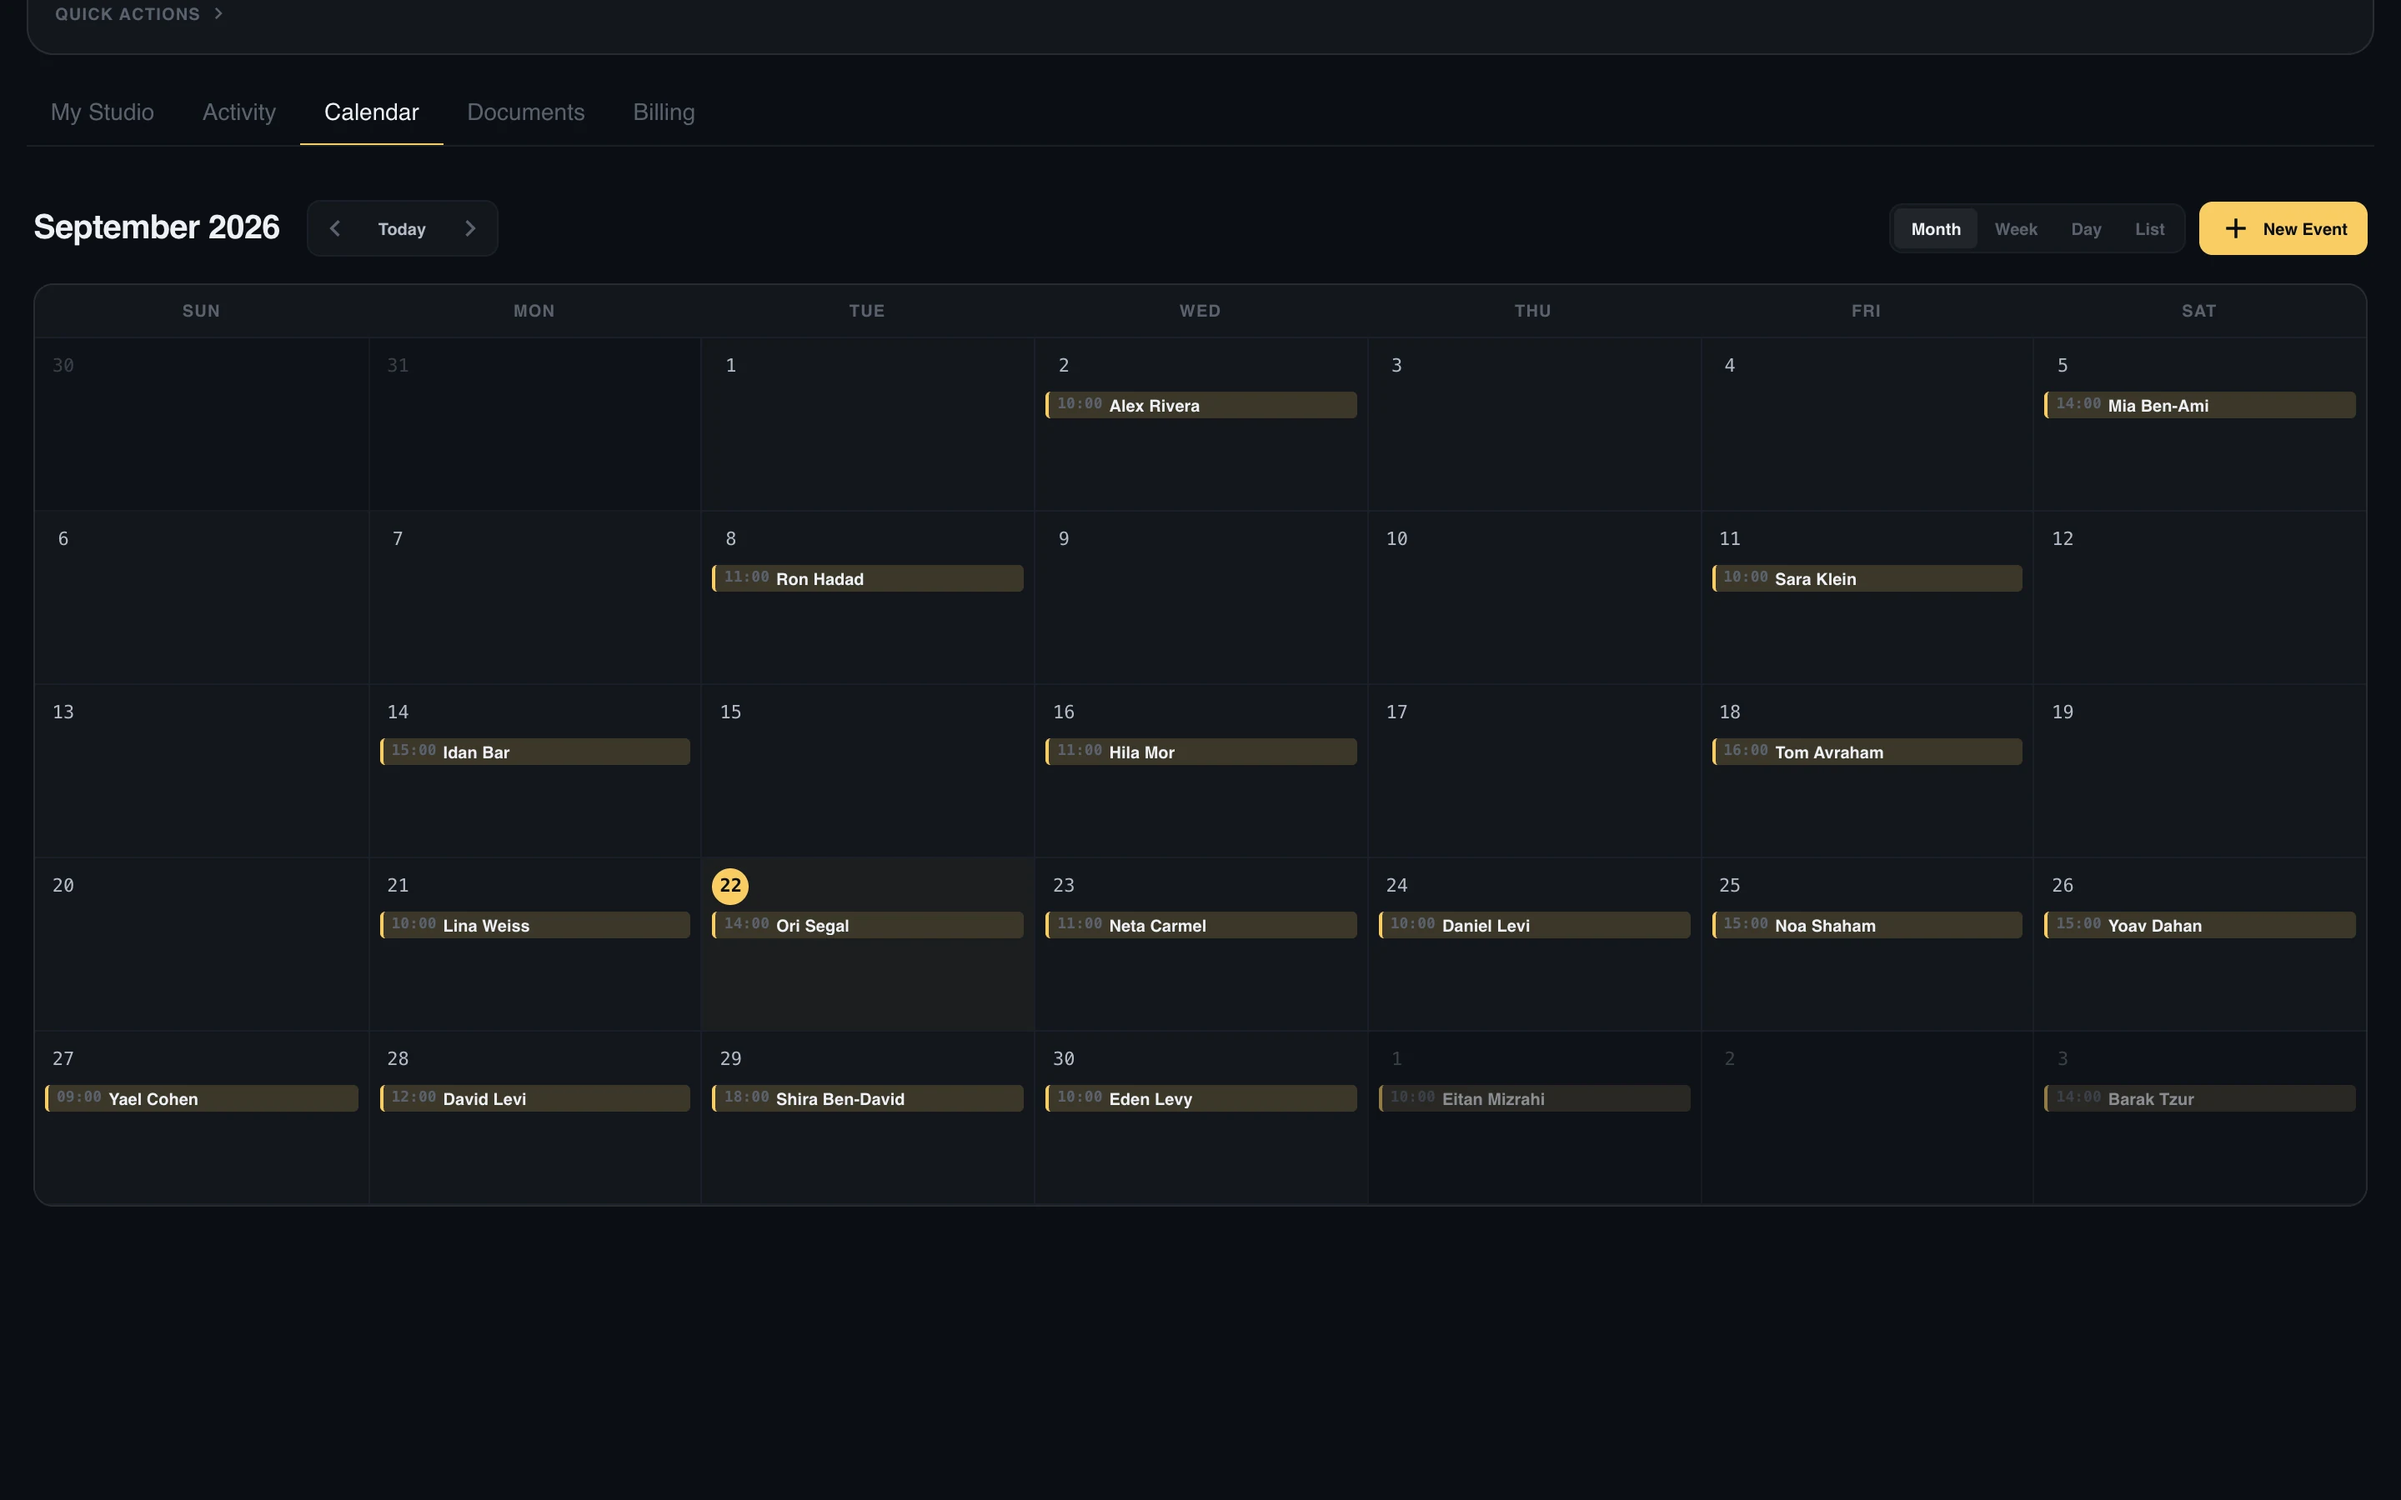
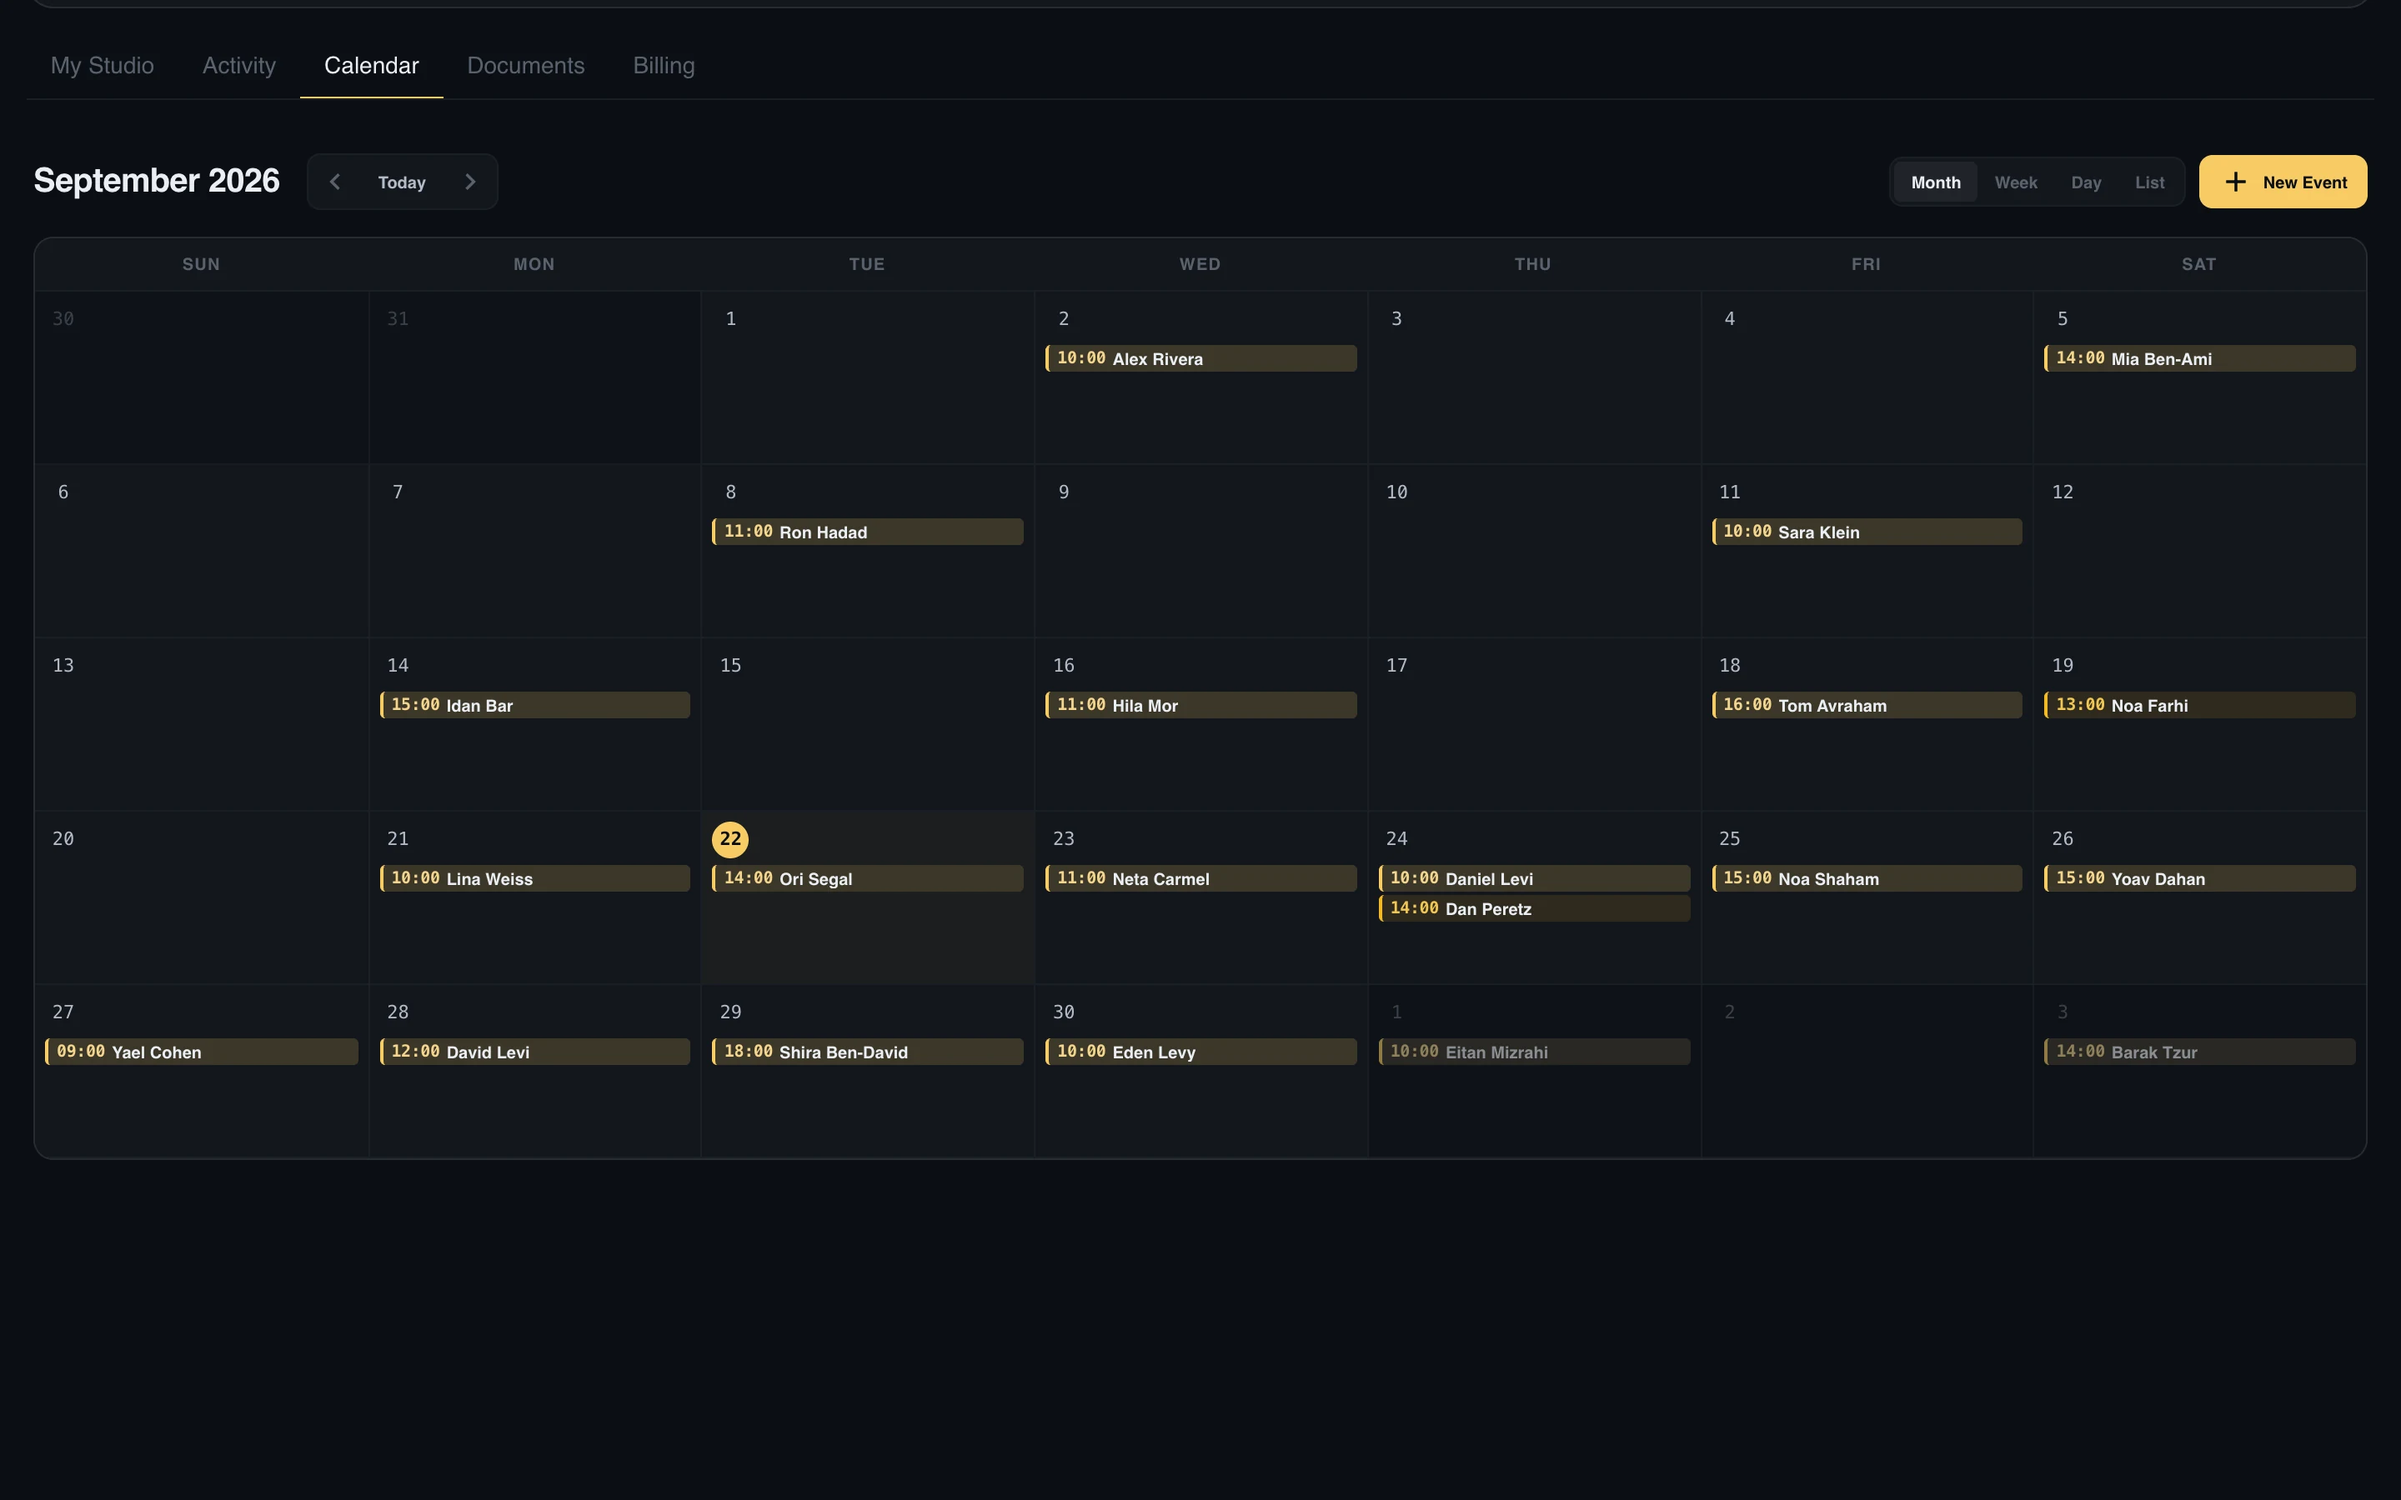
Add calendar to landing, improve tiles, and refresh captures.
Show pending bookings with clearer times and status colors, fix studio service row alignment, and reframe desktop calendar shots without the cropped Quick Actions bar.

diff --git a/src/features/entities/bookings/calender/components/Calendar.tsx b/src/features/entities/bookings/calender/components/Calendar.tsx
@@ -20,12 +20,32 @@ interface CalendarEvent {
   start: Dayjs;
   end: Dayjs;
   type: 'booking' | 'maintenance' | 'blocked';
+  status?: Reservation['status'];
   studioName?: string;
   customerName?: string;
   reservation?: Reservation;
 }
 
 const MONTH_EVENT_LIMIT = 4;
+const CALENDAR_VISIBLE_STATUSES = new Set<Reservation['status']>(['confirmed', 'pending']);
+
+function eventCardVisualClass(event: CalendarEvent): string {
+  if (event.type === 'maintenance' || event.type === 'blocked') {
+    return 'studioz-calendar__event-card--maintenance';
+  }
+  if (event.status === 'pending') {
+    return 'studioz-calendar__event-card--pending';
+  }
+  return 'studioz-calendar__event-card--booking';
+}
+
+function eventAccentClass(event: CalendarEvent, kind: 'bar' | 'dot'): string {
+  const prefix =
+    kind === 'bar' ? 'studioz-calendar__event-bar' : 'studioz-calendar__list-event-dot';
+  if (event.type === 'maintenance' || event.type === 'blocked') return `${prefix}--maintenance`;
+  if (event.status === 'pending') return `${prefix}--pending`;
+  return `${prefix}--booking`;
+}
 
 interface CalendarProps {
   title?: string;
@@ -70,18 +90,13 @@ function EventCard({
   onClick?: () => void;
 }) {
   const isMonth = view === 'month';
+  const visual = eventCardVisualClass(event);
 
   if (isMonth) {
     const label = event.customerName || event.title;
     return (
       <div
-        className={cn(
-          'studioz-calendar__event-card',
-          'studioz-calendar__event-card--month',
-          event.type === 'maintenance'
-            ? 'studioz-calendar__event-card--maintenance'
-            : 'studioz-calendar__event-card--booking'
-        )}
+        className={cn('studioz-calendar__event-card', 'studioz-calendar__event-card--month', visual)}
         onClick={onClick}
       >
         <span className="studioz-calendar__event-time-label">{event.start.format('HH:mm')}</span>
@@ -92,23 +107,8 @@ function EventCard({
 
   // Week/Day view style
   return (
-    <div
-      className={cn(
-        'studioz-calendar__event-card studioz-calendar__event-card--week',
-        event.type === 'maintenance'
-          ? 'studioz-calendar__event-card--maintenance'
-          : 'studioz-calendar__event-card--booking'
-      )}
-      onClick={onClick}
-    >
-      <div
-        className={cn(
-          'studioz-calendar__event-bar',
-          event.type === 'maintenance'
-            ? 'studioz-calendar__event-bar--maintenance'
-            : 'studioz-calendar__event-bar--booking'
-        )}
-      />
+    <div className={cn('studioz-calendar__event-card studioz-calendar__event-card--week', visual)} onClick={onClick}>
+      <div className={cn('studioz-calendar__event-bar', eventAccentClass(event, 'bar'))} />
       <div className="studioz-calendar__event-content">
         <div className="studioz-calendar__event-title">{event.customerName || event.title}</div>
         <div className="studioz-calendar__event-time">
@@ -409,9 +409,7 @@ function ListView({
                   <div
                     className={cn(
                       'studioz-calendar__list-event-dot',
-                      e.type === 'maintenance'
-                        ? 'studioz-calendar__list-event-dot--maintenance'
-                        : 'studioz-calendar__list-event-dot--booking'
+                      eventAccentClass(e, 'dot')
                     )}
                   />
                 </div>
@@ -459,10 +457,10 @@ export const Calendar: React.FC<CalendarProps> = ({
   const [view, setView] = useState<ViewType>('month');
   const [selectedEvent, setSelectedEvent] = useState<CalendarEvent | null>(null);
 
-  // Convert reservations to calendar events
+  // Convert reservations to calendar events (confirmed + pending; hide cancelled/etc.)
   const events: CalendarEvent[] = useMemo(() => {
     return studioReservations
-      .filter((reservation) => reservation.status === 'confirmed')
+      .filter((reservation) => CALENDAR_VISIBLE_STATUSES.has(reservation.status))
       .map((reservation) => {
         const baseDate = reservation.bookingDate.split('/').reverse().join('-');
         const startTime = reservation.timeSlots[0];
@@ -480,6 +478,7 @@ export const Calendar: React.FC<CalendarProps> = ({
           start: dayjs(`${baseDate}T${startTime}`),
           end: dayjs(`${baseDate}T${finalEndTime}`),
           type: 'booking' as const,
+          status: reservation.status,
           studioName: reservation.studioName?.en || reservation.studioName?.he,
           customerName: reservation.customerName,
           reservation

diff --git a/src/features/entities/bookings/calender/styles/_calendar.scss b/src/features/entities/bookings/calender/styles/_calendar.scss
@@ -376,13 +376,32 @@
         border: none;
         border-inline-start: 2px solid var(--color-brand);
         color: var(--text-primary);
+
+        .studioz-calendar__event-time-label {
+          color: color-mix(in srgb, var(--color-brand) 72%, var(--text-primary));
+        }
       }
 
-      &.studioz-calendar__event-card--maintenance {
-        background: color-mix(in srgb, var(--color-warning-text) 14%, var(--bg-surface));
+      &.studioz-calendar__event-card--pending {
+        background: color-mix(in srgb, var(--color-warning-text) 12%, var(--bg-surface));
         border: none;
         border-inline-start: 2px solid var(--color-warning-text);
         color: var(--text-primary);
+
+        .studioz-calendar__event-time-label {
+          color: color-mix(in srgb, var(--color-warning-text) 78%, var(--text-primary));
+        }
+      }
+
+      &.studioz-calendar__event-card--maintenance {
+        background: color-mix(in srgb, var(--color-info-text, var(--text-muted)) 12%, var(--bg-surface));
+        border: none;
+        border-inline-start: 2px solid var(--color-info-text, var(--text-muted));
+        color: var(--text-primary);
+
+        .studioz-calendar__event-time-label {
+          color: var(--text-secondary);
+        }
       }
     }
 
@@ -411,9 +430,15 @@
         color: var(--text-primary);
       }
 
-      &.studioz-calendar__event-card--maintenance {
-        background: color-mix(in srgb, var(--color-warning-text) 14%, var(--bg-surface));
+      &.studioz-calendar__event-card--pending {
+        background: color-mix(in srgb, var(--color-warning-text) 12%, var(--bg-surface));
         border-inline-start-color: var(--color-warning-text);
+        color: var(--text-primary);
+      }
+
+      &.studioz-calendar__event-card--maintenance {
+        background: color-mix(in srgb, var(--color-info-text, var(--text-muted)) 12%, var(--bg-surface));
+        border-inline-start-color: var(--color-info-text, var(--text-muted));
         color: var(--text-primary);
       }
 
@@ -428,6 +453,12 @@
       color: var(--text-primary);
     }
 
+    &--pending {
+      background: color-mix(in srgb, var(--color-warning-text) 12%, transparent);
+      border: 1px solid color-mix(in srgb, var(--color-warning-text) 28%, transparent);
+      color: var(--text-primary);
+    }
+
     &--maintenance {
       background: var(--color-warning-bg);
       border: 1px solid var(--color-warning-border);
@@ -437,12 +468,13 @@
 
   &__event-time-label {
     flex-shrink: 0;
-    font-size: 0.5625rem;
+    font-size: 0.625rem;
     font-weight: 650;
     font-family: 'DM Mono', monospace;
     font-variant-numeric: tabular-nums;
-    color: var(--text-muted);
+    color: var(--text-secondary);
     direction: ltr;
+    letter-spacing: -0.02em;
   }
 
   &__event-dot {
@@ -455,8 +487,12 @@
       background: var(--color-brand);
     }
 
-    &--maintenance {
+    &--pending {
       background: var(--color-warning-text);
+    }
+
+    &--maintenance {
+      background: var(--color-info-text, var(--text-muted));
     }
   }
 
@@ -483,8 +519,12 @@
       background: var(--color-brand);
     }
 
-    &--maintenance {
+    &--pending {
       background: var(--color-warning-text);
+    }
+
+    &--maintenance {
+      background: var(--color-info-text, var(--text-muted));
     }
   }
 
@@ -860,8 +900,12 @@
       background: var(--color-brand);
     }
 
-    &--maintenance {
+    &--pending {
       background: var(--color-warning-text);
+    }
+
+    &--maintenance {
+      background: var(--color-info-text, var(--text-muted));
     }
   }
 

diff --git a/src/features/entities/studios/components/StudioManager/styles/_studio-manager.scss b/src/features/entities/studios/components/StudioManager/styles/_studio-manager.scss
@@ -579,7 +579,7 @@
   .studio-card__item {
     padding: 0.5rem 0.875rem;
     display: flex;
-    align-items: center;
+    align-items: flex-start; // keep titles on one baseline across rows
     flex-wrap: nowrap;
     border-bottom: 1px solid var(--border-primary);
     transition: background 0.2s ease;
@@ -610,7 +610,7 @@
 
   .studio-card__item-info {
     display: flex;
-    align-items: center;
+    align-items: flex-start;
     gap: 0.625rem;
     min-width: 0;
     flex: 1 1 auto;
@@ -619,6 +619,8 @@
   .studio-card__item-icon {
     width: 32px;
     height: 32px;
+    flex-shrink: 0;
+    margin-top: 0.125rem; // optical align with title cap-height
     border-radius: ds.$radius-md;
     display: flex;
     align-items: center;
@@ -642,7 +644,7 @@
   .studio-card__item-details {
     display: flex;
     flex-direction: column;
-    gap: vars.$spacing-xs;
+    gap: 0.125rem;
     min-width: 0; // Allow text truncation in children
     flex: 1;
     overflow: hidden;
@@ -659,8 +661,11 @@
   .studio-card__item-name {
     flex: 1 1 auto;
     min-width: 0;
-    font-weight: 500;
-    color: var(--text-secondary);
+    margin: 0;
+    font-size: 0.875rem;
+    font-weight: 550;
+    line-height: 1.25;
+    color: var(--text-primary);
     white-space: nowrap;
     overflow: hidden;
     text-overflow: ellipsis;
@@ -685,10 +690,13 @@
   }
 
   .studio-card__item-meta {
+    margin: 0;
     font-size: vars.$font-size-xs;
+    line-height: 1.3;
     color: var(--text-muted);
     display: flex;
     align-items: center;
+    flex-wrap: wrap;
     gap: vars.$spacing-xs;
 
     &-divider {
@@ -702,8 +710,10 @@
   .studio-card__item-controls {
     display: flex;
     align-items: center;
+    align-self: center; // stay mid-row while titles stay top-aligned
     gap: 0.75rem;
     margin-inline-start: auto;
+    flex-shrink: 0;
 
     @media (min-width: 768px) {
       gap: 0.75rem;

diff --git a/tools/app-store-screenshots/src/capture/fixtures.ts b/tools/app-store-screenshots/src/capture/fixtures.ts
@@ -572,6 +572,26 @@ const additionalReservationSeed: Array<{
     createdAt: '2026-08-28T16:00:00.000Z'
   },
   {
+    customerId: 'customer-pending-sep',
+    customerName: 'Noa Farhi',
+    bookingDate: '19/09/2026',
+    startHour: 13,
+    duration: 2,
+    status: 'pending',
+    itemName: { en: 'Studio Rental', he: 'השכרת אולפן' },
+    createdAt: '2026-09-17T11:00:00.000Z'
+  },
+  {
+    customerId: 'customer-pending-sep-2',
+    customerName: 'Dan Peretz',
+    bookingDate: '24/09/2026',
+    startHour: 14,
+    duration: 2,
+    status: 'pending',
+    itemName: { en: 'Mixing Session', he: 'סשן מיקס' },
+    createdAt: '2026-09-20T14:30:00.000Z'
+  },
+  {
     customerId: 'customer-eighteen',
     customerName: 'Mia Ben-Ami',
     bookingDate: '05/09/2026',

diff --git a/src/features/static/pages/PreviewLandingPage.tsx b/src/features/static/pages/PreviewLandingPage.tsx
@@ -32,14 +32,19 @@ const SHOWCASES = [
     desktops: ['desktop-reservations', 'desktop-projects'] as const
   },
   {
-    key: 'analytics',
-    desktop: 'cross-device-analytics-desktop',
-    mobile: 'cross-device-analytics-mobile'
+    key: 'calendar',
+    desktop: 'desktop-calendar',
+    mobile: 'mobile-calendar'
   },
   {
     key: 'projects',
     desktop: undefined,
     mobile: 'cross-device-project-review-mobile'
+  },
+  {
+    key: 'analytics',
+    desktop: 'cross-device-analytics-desktop',
+    mobile: 'cross-device-analytics-mobile'
   },
   {
     key: 'presence',

diff --git a/tools/app-store-screenshots/screenshots.config.ts b/tools/app-store-screenshots/screenshots.config.ts
@@ -80,7 +80,8 @@ const scenes: ScreenshotScene[] = [
     textAlign: 'center',
     actions: [
       { type: 'click', selector: '.quick-actions__header' },
-      { type: 'scroll', y: 160 }
+      // Nudge past the collapsed Quick Actions bar so it isn't cropped at the top edge.
+      { type: 'scroll', y: 188 }
     ],
     deviceTransform: { scale: 0.72, y: 100, shadow: true },
     capturePublish: {
